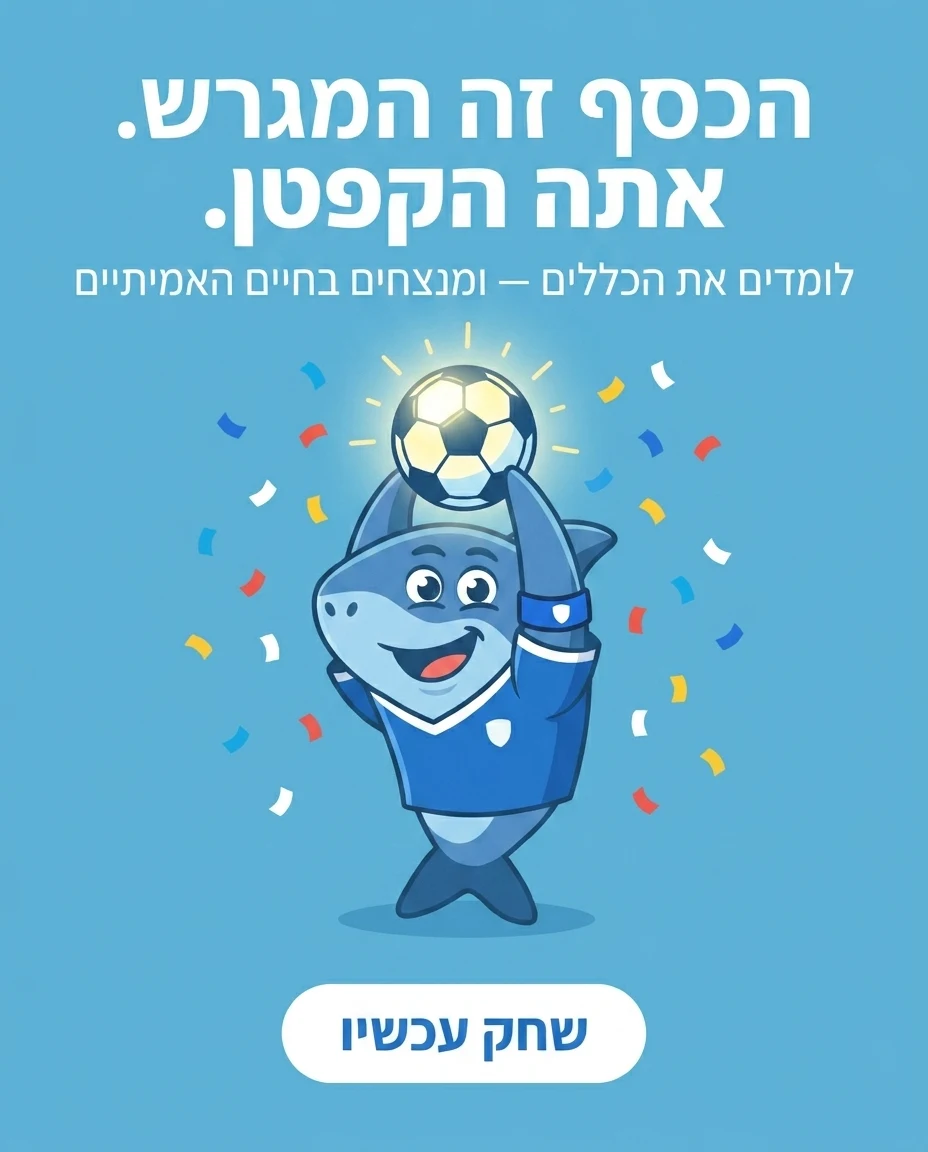
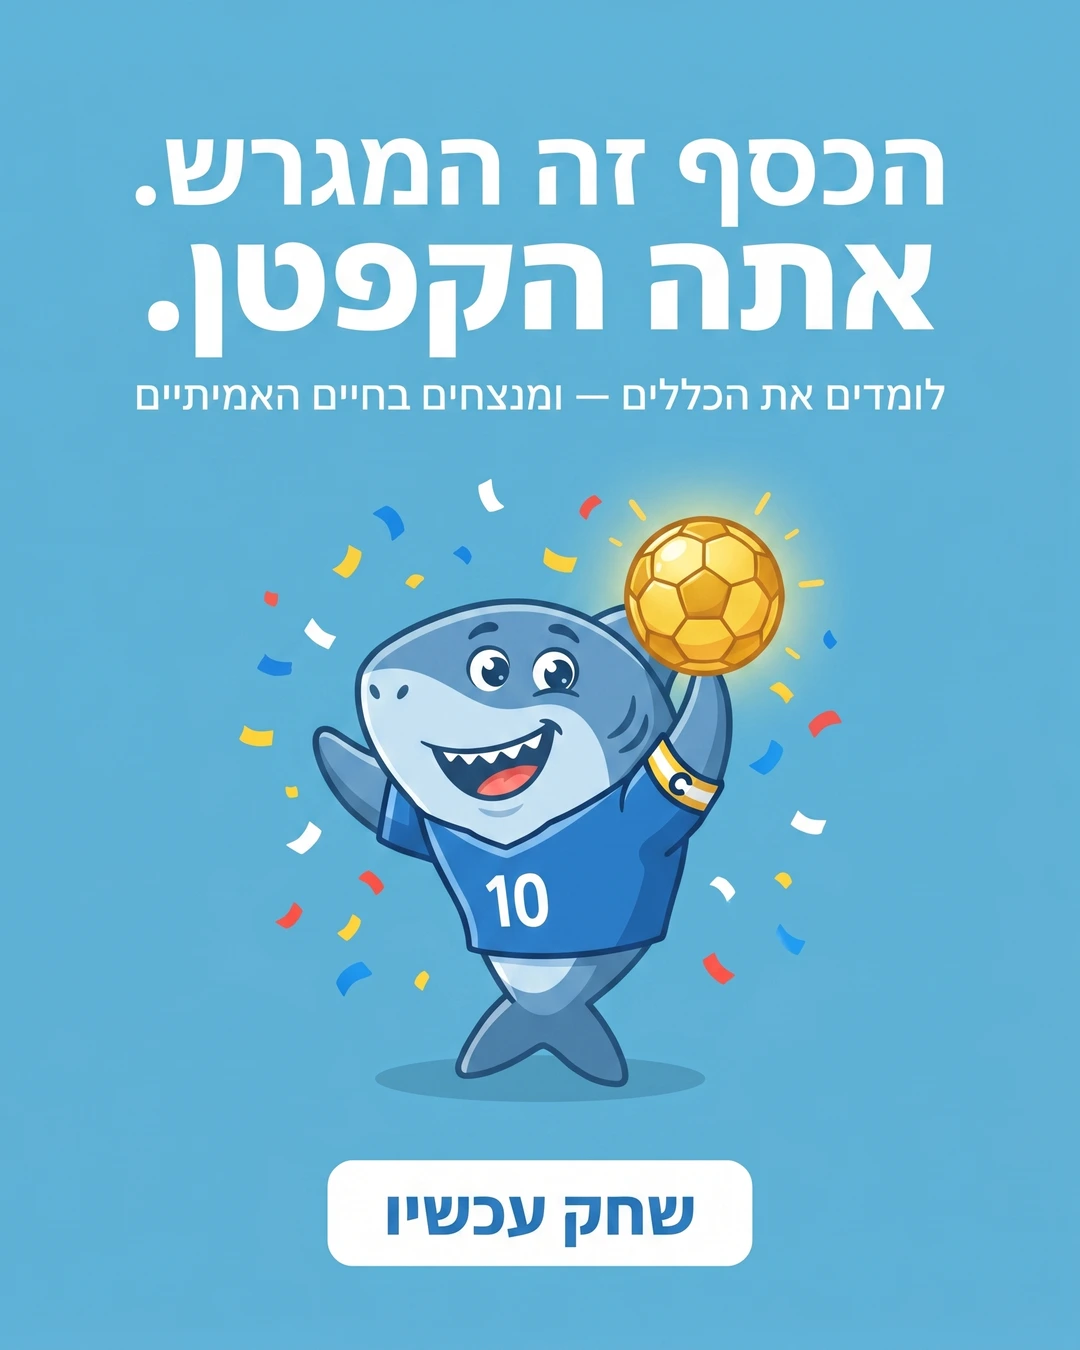
fix(mondial): improve RTL swipe behavior and accessibility for carousel

diff --git a/src/features/subscription/PricingScreen.tsx b/src/features/subscription/PricingScreen.tsx
@@ -634,15 +634,21 @@ export function PricingScreen() {
                     // offering (no purchase attempt, no error popup). Otherwise
                     // it's the real purchase CTA. Disabled while a purchase is
                     // in flight OR the offering is still loading.
-                    onPress={offerState === 'unavailable' ? loadOffering : handleUpgrade}
-                    disabled={isLoading || offerState === 'loading'}
+                    // Guest takes precedence: a guest has no real RC account, so
+                    // the offering resolves to 'unavailable' and the CTA used to
+                    // get stuck in the silent retry loop ("המנוי אינו זמין"). For a
+                    // guest the real blocker is the missing account — route them to
+                    // register (handleUpgrade already handles the guest→register
+                    // flow), and don't gate the button on the offering loading.
+                    onPress={isGuest ? handleUpgrade : (offerState === 'unavailable' ? loadOffering : handleUpgrade)}
+                    disabled={isLoading || (!isGuest && offerState === 'loading')}
                     accessibilityRole="button"
-                    accessibilityLabel={offerState === 'unavailable' ? 'נסה שוב' : 'שדרג עכשיו ל-PRO'}
-                    accessibilityState={{ disabled: isLoading || offerState === 'loading' }}
+                    accessibilityLabel={isGuest ? 'להירשם עכשיו' : (offerState === 'unavailable' ? 'נסה שוב' : 'שדרג עכשיו ל-PRO')}
+                    accessibilityState={{ disabled: isLoading || (!isGuest && offerState === 'loading') }}
                     style={({ pressed }) => [
                       styles.ctaButtonBase,
                       pressed && { opacity: 0.9, transform: [{ scale: 0.98 }] },
-                      (isLoading || offerState === 'loading') && { opacity: 0.6 },
+                      (isLoading || (!isGuest && offerState === 'loading')) && { opacity: 0.6 },
                     ]}
                   >
                     <LinearGradient
@@ -650,12 +656,24 @@ export function PricingScreen() {
                       start={{ x: 0, y: 0 }} end={{ x: 1, y: 1 }}
                       style={styles.ctaButtonGradient}
                     >
-                      {(isLoading || offerState === 'loading') ? (
+                      {(isLoading || (!isGuest && offerState === 'loading')) ? (
                         <View style={{ flexDirection: 'row', alignItems: 'center', gap: 10, justifyContent: 'center' }}>
                           <ActivityIndicator color="#ffffff" size="small" />
                           {offerState === 'loading' && !isLoading ? (
                             <Text style={styles.ctaText}>טוען מסלולים…</Text>
                           ) : null}
+                        </View>
+                      ) : isGuest ? (
+                        <View style={{ flexDirection: 'row', alignItems: 'center', gap: 8, justifyContent: 'center' }}>
+                          <View accessible={false}>
+                            <LottieView
+                              source={require("../../../assets/lottie/Pro Animation 3rd.json")}
+                              style={styles.ctaLottie}
+                              autoPlay
+                              loop
+                            />
+                          </View>
+                          <Text style={styles.ctaText}>להירשם עכשיו</Text>
                         </View>
                       ) : offerState === 'unavailable' ? (
                         <Text style={styles.ctaText}>נסה שוב</Text>
@@ -680,7 +698,11 @@ export function PricingScreen() {
 
                 {/* Silent "unavailable" / soft purchase-failure notices —
                     friendly, non-blocking, never a hard error alert. */}
-                {offerState === 'unavailable' ? (
+                {isGuest ? (
+                  <Text style={[styles.priceMain, { color: theme.textMuted, fontSize: 12, marginTop: 6 }]}>
+                    כדי להפעיל Pro צריך חשבון — חינם, לוקח שנייה
+                  </Text>
+                ) : offerState === 'unavailable' ? (
                   <Text style={[styles.priceMain, { color: theme.textMuted, fontSize: 12, marginTop: 6 }]}>
                     המנוי אינו זמין כרגע. נסו שוב בעוד רגע.
                   </Text>

diff --git a/src/features/mondial/mondialCarouselData.ts b/src/features/mondial/mondialCarouselData.ts
@@ -17,22 +17,22 @@ export const MONDIAL_SLIDES: MondialSlide[] = [
   {
     id: "cover",
     source: require("../../../assets/IMAGES/mondial-carousel/slide1-cover.webp"),
-    alt: "5 מספרים מטורפים מאחורי המונדיאל",
+    alt: "3 מספרים מטורפים מאחורי המונדיאל",
   },
   {
     id: "betting",
     source: require("../../../assets/IMAGES/mondial-carousel/slide2-betting.webp"),
-    alt: "50 מיליארד דולר יהמרו על המונדיאל — הבית תמיד מנצח",
+    alt: "הערכה: ההימורים הרשמיים על המונדיאל יסתכמו ב-50 מיליארד דולר",
   },
   {
     id: "tickets",
     source: require("../../../assets/IMAGES/mondial-carousel/slide3-tickets.webp"),
-    alt: "כרטיס לגמר עד 11,000 דולר ל-90 דקות",
+    alt: "מחיר כרטיס בסיסי לגמר: 11,000 דולר",
   },
   {
     id: "ronaldo",
     source: require("../../../assets/IMAGES/mondial-carousel/slide4-ronaldo.webp"),
-    alt: "רונאלדו מרוויח 767 אלף דולר ביום, גם כשהוא ישן",
+    alt: "רונאלדו, במונדיאל האחרון שלו, עדיין מרוויח 767,000 דולר ביום",
   },
   {
     id: "cta",

diff --git a/docs/marketing/BRAND/content-visual-style.md b/docs/marketing/BRAND/content-visual-style.md
@@ -19,6 +19,7 @@
 
 ### 1. 🎓 קרוסלה חינוכית (אינסטגרם) — `edu-carousel-army-*`
 - **רקע:** תכלת מלא בהיר (solid sky-blue).
+- **גודל/פורמט:** **1080×1350 px (4:5 portrait)** — הגודל המומלץ של אינסטגרם לפיד. מייצרים ב-Higgsfield `aspect_ratio:"4:5"` ברזולוציה `2k` (יוצא ~1856×2304) ואז **ממירים בדיוק ל-1080×1350** (`magick … -resize 1080x1350^ -gravity center -extent 1080x1350`). כל הסליידרים באותו גודל בדיוק. (כלל יואב 17/06/2026.)
 - **לייאאוט:** כותרת לבנה מודגשת **למעלה** (כותרת + מילת מפתח מובלטת) + שובר-משנה בסוגריים, שארק **בתחפושת/הקשר** (מדים, חליפה…) בתחתית.
 - **⛔ אין לאפות מונה/מספור (`1/N`) לתוך התמונה** — אינסטגרם מוסיף את המספור והנקודות **אוטומטית**. ה-`1/7` שנראה בסקרינשוטים של הרפרנס הוא ה-UI של אינסטגרם, **לא** חלק מהעיצוב. (תיקון יואב 16/06/2026.)
 - **שימוש:** עמוד 2 (שובר את הסינית) — "5 דברים שחייב לדעת…".
